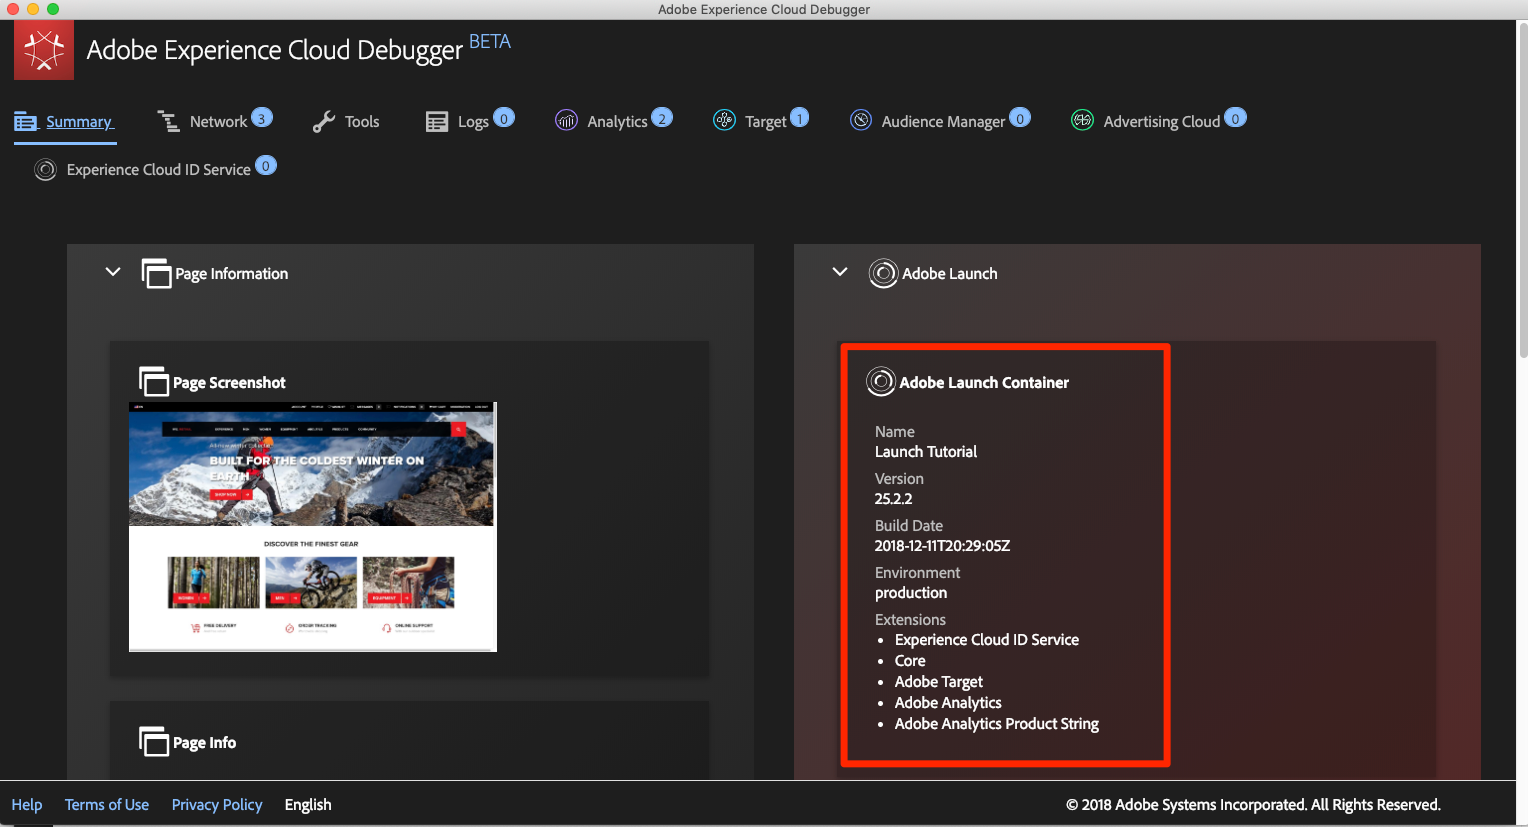
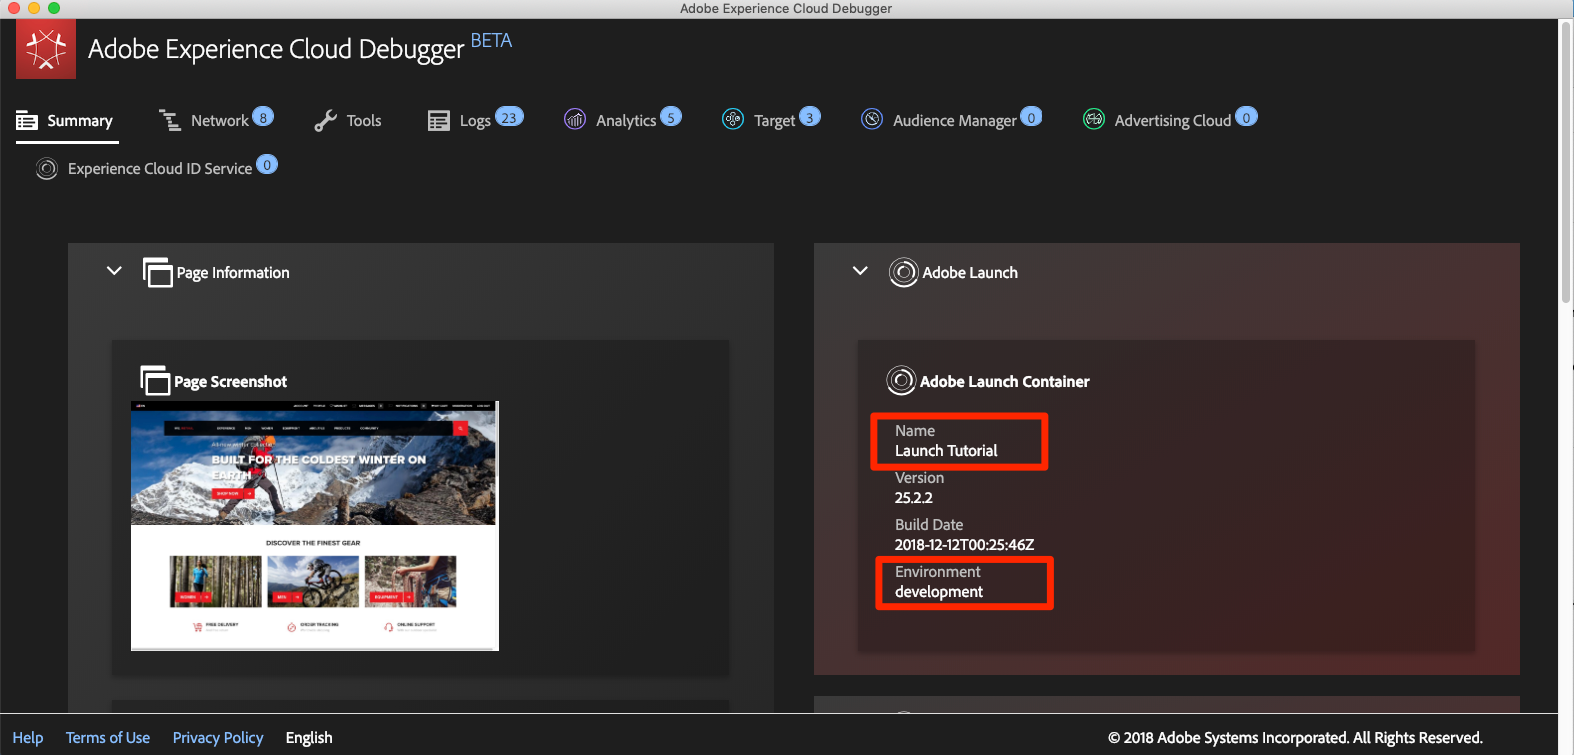
target updates

diff --git a/help/website-implementation/pages/target.md b/help/website-implementation/pages/target.md
@@ -42,10 +42,10 @@ This has already been done on the We.Retail site, but let's go ahead and do this
 </script>
 ```
 
-Open the sample page and paste it just before your Launch embed code as pictured below:
+Open the sample page and paste it just before your Launch embed code as pictured below (don't worry if the line numbers are different):
    ![Hover over the extension](../assets/images/target-prehidingSnippet.png)
 
-Reload your sample page. You will notice that the page will be hidden for three seconds before it shown. This behavior is temporary and will go away after you have deployed Target. This behavior is controlled by two configurations at the very end of the pre-hiding snippet, which can be customized but are usually best left on the default settings:
+Reload your sample page. You will notice that the page will be hidden for three seconds before it shown. This behavior is temporary and will go away after you have deployed Target. This pre-hiding behavior is controlled by two configurations at the very end of the snippet, which can be customized but are usually best left on the default settings:
 
 * `body {opacity: 0 !important}` specifies the css definition to use for the pre-hiding until Target loads. By default, the entire body will be hidden. If you have a consistent DOM structure with an easily identifiable container element wrapping all of the content below your navigation, for example, and you never wanted to test or personalize your navigation, you could use this setting to limit the pre-hiding to that container element.
 * `3E3` which specifies the timeout setting for the pre-hiding. By default, if Target hasn't loaded in three seconds the page will be shown. This should be extremely rare.
@@ -65,7 +65,7 @@ The Target extension consists of two main parts:
     1. Add Params to Global Mbox
     1. Fire Global Mbox
 
-In this exercise we will add the extension and look at the configurations. In later exercises we will use the other actions.
+In this first exercise we will add the extension and look at the configurations. In later exercises we will use the actions.
 
 **To add the Extension**
 
@@ -81,13 +81,13 @@ In this exercise we will add the extension and look at the configurations. In la
 
 At this point, Target isn't really doing anything, so there is nothing to validate.
 
->[!NOTE] Each version of the Target extension comes with a specific version of at.js. You update the at.js version by updating the Target extension.
+>[!NOTE] Each version of the Target extension comes with a specific version of at.js, which is listed in the extension description. You update the at.js version by updating the Target extension.
 
 ## Load Target and Fire the Global Mbox
 
 Marketers use Target to control the visitor experience on the page when testing and targeting content. Because of this important role in the display of the page, you should load Target as early as possible to minimize the impact on page visibility. In this section, we will load the Target JavaScript library&mdash;at.js&mdash;as well as fire the global mbox.
 
-You can use the `All Pages - Library Loaded` rule you created in the lesson "[Add Data Elements, Rules and Libraries](launch-data-elements-rules.md)" to implement Target because it is triggered as early as possible on every page.
+You can use the `All Pages - Library Loaded` rule you created in the lesson "[Add Data Elements, Rules and Libraries](launch-data-elements-rules.md)" to implement Target because it is already triggered on the first event that will fire on a page load&mdash;the Library Loaded event.
 
 **To Load Target**
 
@@ -121,21 +121,19 @@ With the `Load Target` action added, at.js will load on the page. However, no Ta
 
 1. There are some configurations available for the global mbox related to whether or not to hide the page and CSS selector to use for pre-hiding. These settings work in conjunction with the pre-hiding snippet hardcoded on the page. Leave the default settings.
 
-   ![Fire Global Mbox action](../assets/images/target-fireGlobalMbox.png)
-
 1. Click **[!UICONTROL Keep Changes]**
+
+   ![Fire Global Mbox action](../assets/images/target-fireGlobalMbox.png)
 
 1. The new action is added in sequence after the `Load Target` action and the actions will execute in this order. You can drag-and-drop the actions to rearrange the order, but in this scenario, `Load Target` needs fire before the `Fire Global Mbox`.
 
 1. Click **[!UICONTROL Save to Library and Build]**
 
-1. Wait until the green dot appears next to your working library, indicating that the new version of the library has been built.
-
-   ![Wait until the library has built, as indicated by the green dot](../assets/images/target-libraryBuilt.png)
+   ![Fire Global Mbox action](../assets/images/target-fireGlobalMbox-saveAndBuild.png)
 
 ### Validate the Global Mbox
 
-Now that you have added the Target extension and fired the `Load Target` and `Fire Global Mbox` actions, there should now be a global mbox request made on all pages where your Launch property is used.
+Now that you have added the Target extension and fired the `Load Target` and `Fire Global Mbox` actions, there should be a global mbox request made on all pages where your Launch property is used.
 
 **To validate the Load Target and Global Mbox actions**
 
@@ -159,7 +157,7 @@ Now that you have added the Target extension and fired the `Load Target` and `Fi
 
    ![Confirm the global mbox request has been made](../assets/images/target-debugger-globalMbox.png)
 
-Congratulations! You've made your first solution request using a rule!
+Congratulations! 
 
 ## Add Parameters
 

diff --git a/help/website-implementation/pages/id-service.md b/help/website-implementation/pages/id-service.md
@@ -236,24 +236,24 @@ Now, confirm the customer id is sent to the Service using the Debugger extension
 **To validate that the ID Service is passing the customer id**
 
 1. Make sure the tab with the We.Retail site is in focus
-1. Go to the Experience Cloud ID Service tab
+1. In the Debugger, go to the Experience Cloud ID Service tab
 1. Expand your Org ID
 1. Click on the cell with the `Customer ID - crm_id` value
 1. In the modal, note the customer id value and that the `AUTHENTICATED` state is reflected:
 
    ![Confirm the Customer ID in the Debugger](../assets/images/idservice-debugger-confirmCustomerId.png)
 
-1. Note that you can confirm the hashed email value by viewing the source code of the page and looking at the username property. It should match the value you see in the Debugger:
+1. Note that you can confirm the hashed email value by viewing the source code of the We.Retail page and looking at the username property. It should match the value you see in the Debugger:
 
    ![hashed email in the source code](../assets/images/idservice-customerId-inSourceCode.png)
 
 ### Additional Validation Tips
 
-Launch also has rich console logging features. To turn them on, go to the **[!UICONTROL Tools]** tab in the Debugger and turn on the **[!UICONTROL Launch Console Logging Toggle]**.
+Launch also has rich console logging features. To turn them on, go to the **[!UICONTROL Tools]** tab in the Debugger and turn on the **[!UICONTROL Launch Console Logging]** toggle.
 
 ![Toggle on Launch's Console Logging](../assets/images/idservice-debugger-logging.png)
 
-This will turn on console logging both in your browser console and in the Logs tab of the Debugger. You should see the logging of all of the rules you have created so far!:
+This will turn on console logging both in your browser console and in the Logs tab of the Debugger. You should see the logging of all of the rules you have created so far! Note that new log entries are added to the top of the list, so your rule "All Pages - Library Loaded - Authenticated - 10" should fire before the "All Pages - Library Loaded" rule and appear below it in the Debugger's Console Logging:
 
 ![Logs tab of the Debugger](../assets/images/idservice-debugger-loggingStatements.png)
 

diff --git a/help/website-implementation/pages/launch-switch-environments.md b/help/website-implementation/pages/launch-switch-environments.md
@@ -43,7 +43,7 @@ At the end of this lesson, you will be able to:
 
 1. Note that the currently implemented Launch property is shown on the Summary tab
 
-   ![Launch environment shown in Debugger](../assets/images/switchEnvironments-debuggerOnWeRetail.png)
+   ![Launch environment shown in Debugger](../assets/images/switchEnvironments-debuggerOnWeRetail-prod.png)
 
 1. Go to the Tools tab
 
@@ -61,7 +61,7 @@ At the end of this lesson, you will be able to:
 
 1. Reload the We.Retail site and check the Summary tab of the Debugger. Under the Launch section, you should now see your Development Property is being used. Confirm that both the Name of the property matches yours and that the Environment says "development."
 
-   ![Launch environment shown in Debugger](../assets/images/switchEnvironments-debuggerOnWeRetail-switched.png)
+   ![Launch environment shown in Debugger](../assets/images/switchEnvironments-debuggerOnWeRetail.png)
 
 >[!NOTE] The Debugger will save this configuration and replace the Launch embed codes whenever you come back to the We.Retail site. It will not impact other sites you visit in other open tabs. To stop the Debugger from replacing the embed code, click the "X" next to the embed code in the Tools tab of the Debugger.
 
